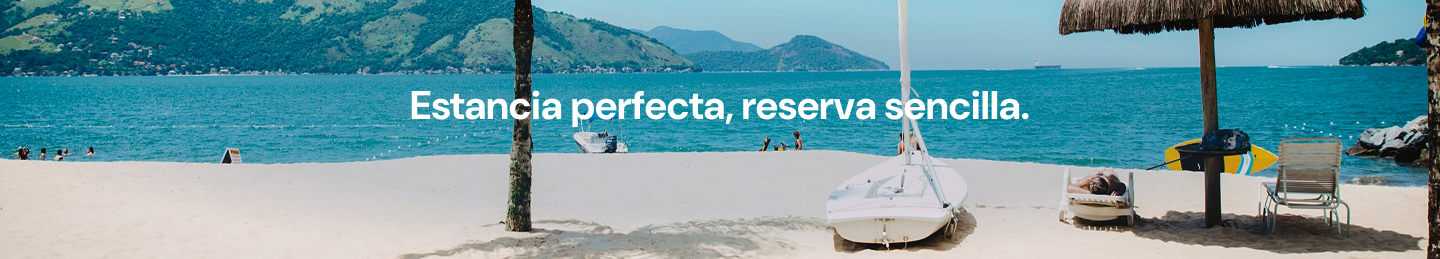
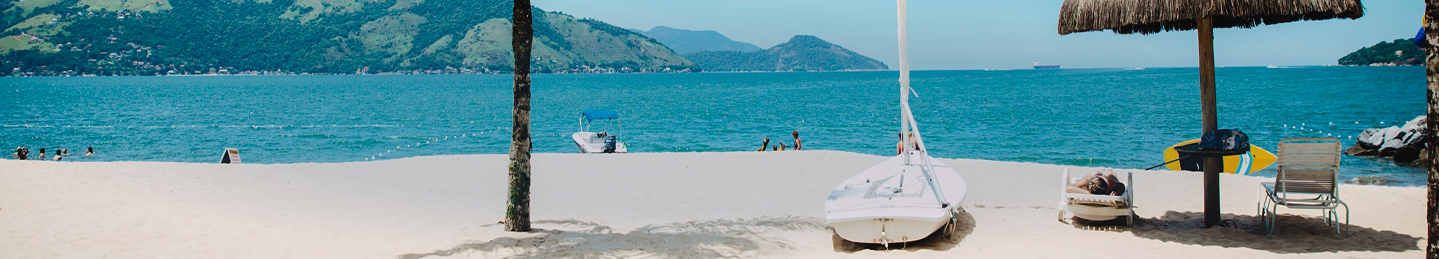
implementacion-responsive-complete

diff --git a/src/modules/home/components/CalltoAction.jsx b/src/modules/home/components/CalltoAction.jsx
@@ -2,20 +2,23 @@ import { Link } from "react-router-dom";
 
 export const CalltoAction = () => {
   return (
-    <section className="relative w-full h-[259px] py-20 flex items-end justify-center text-center bg-white mx-auto mt-25">
-   
+    <section className="relative w-full h-[220px] py-20 flex flex-col items-center justify-center text-center bg-white mx-auto mt-25 -translate-y-17">
       <img 
         src="public/CTA(2).png" 
-        className="absolute w-full h-full object-cover left-1/2 -translate-x-1/2"
+        className="absolute w-full h-full object-cover left-0 top-0"
         alt="Call to Action"
       />
-
-      <div className="z-10 ml-1 mb-10">
+      
+      <h2 className="z-10 text-white text-xl sm:text-2xl md:text-3xl lg:text-4xl font-bold font-dm-sans leading-tight md:leading-[50px] text-center shadow-md [text-shadow:_0px_4px_4px_rgb(0_0_0_/_0.25)] max-w-[90%] sm:max-w-[80%] md:max-w-[60%]">
+        Estancia perfecta, reserva sencilla.
+      </h2>
+      
+      <div className="z-10 mt-4 sm:mt-6">
         <Link 
           to="/reservaciones"
-          className="bg-white text-[#34A0A4] px-5 py-3 flex items-center justify-center rounded-full font-bold transition w-auto"
+          className="bg-white text-[#34A0A4] px-6 sm:px-4 md:px-6 py-2 sm:py-2 md:py-3 rounded-full font-bold transition w-auto shadow-md flex items-center justify-center "
         >
-          <span className="text-[18px] font-bold whitespace-nowrap font-dm-sans tracking-wide text-center">
+          <span className="text-base sm:text-lg md:text-xl font-bold font-dm-sans tracking-wide">
             Reservar ahora
           </span>
         </Link>

diff --git a/src/modules/home/components/Testimonials.jsx b/src/modules/home/components/Testimonials.jsx
@@ -5,7 +5,7 @@ export const Testimonials = () => {
   return (
     <section className="w-[74%] flex flex-col justify-center items-center mt-12 gap-10 mx-auto">
       <header className="flex flex-col justify-center items-center gap-4">
-        <h2 className="text-center text-[#292D32] ml-6 text-4xl whitespace-nowrap font-bold font-dm-sans tracking-wide">
+      <h2 className="text-center text-[#292D32] ml-6 text-xl sm:text-3xl md:text-4xl lg:text-5xl whitespace-nowrap font-bold font-dm-sans tracking-wide">
           Lo Que Opinan Nuestros Clientes.
         </h2>
       </header>
